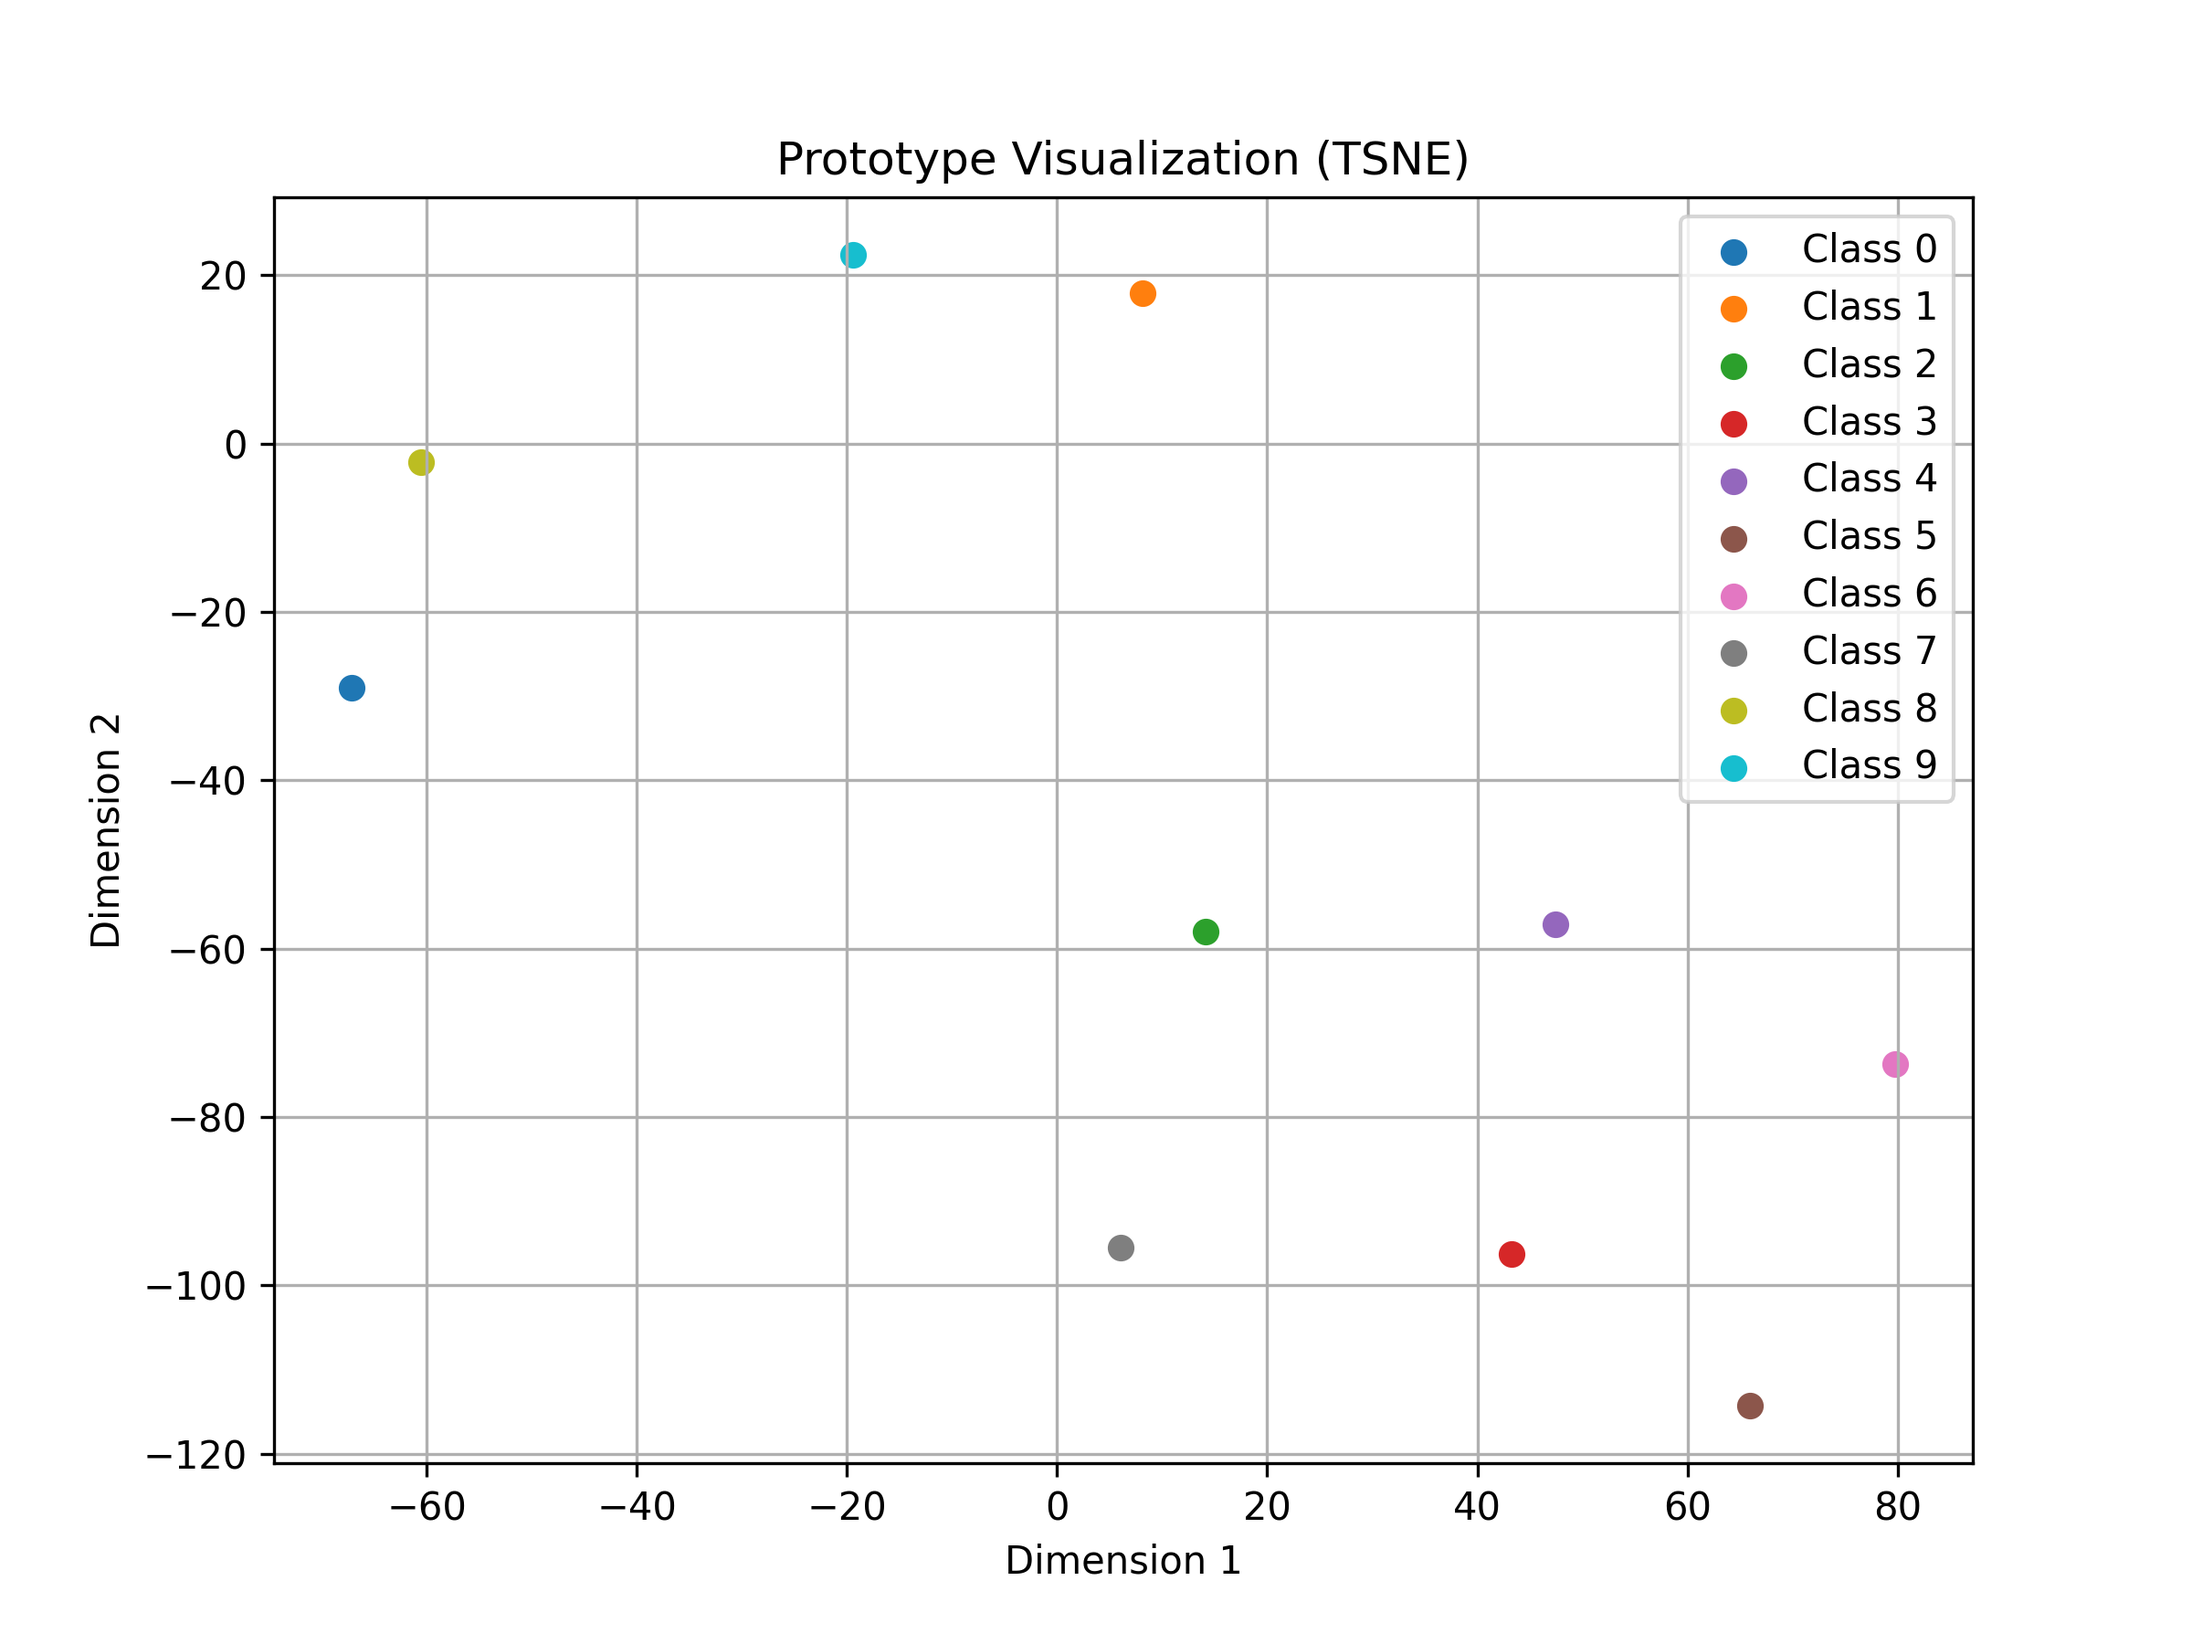
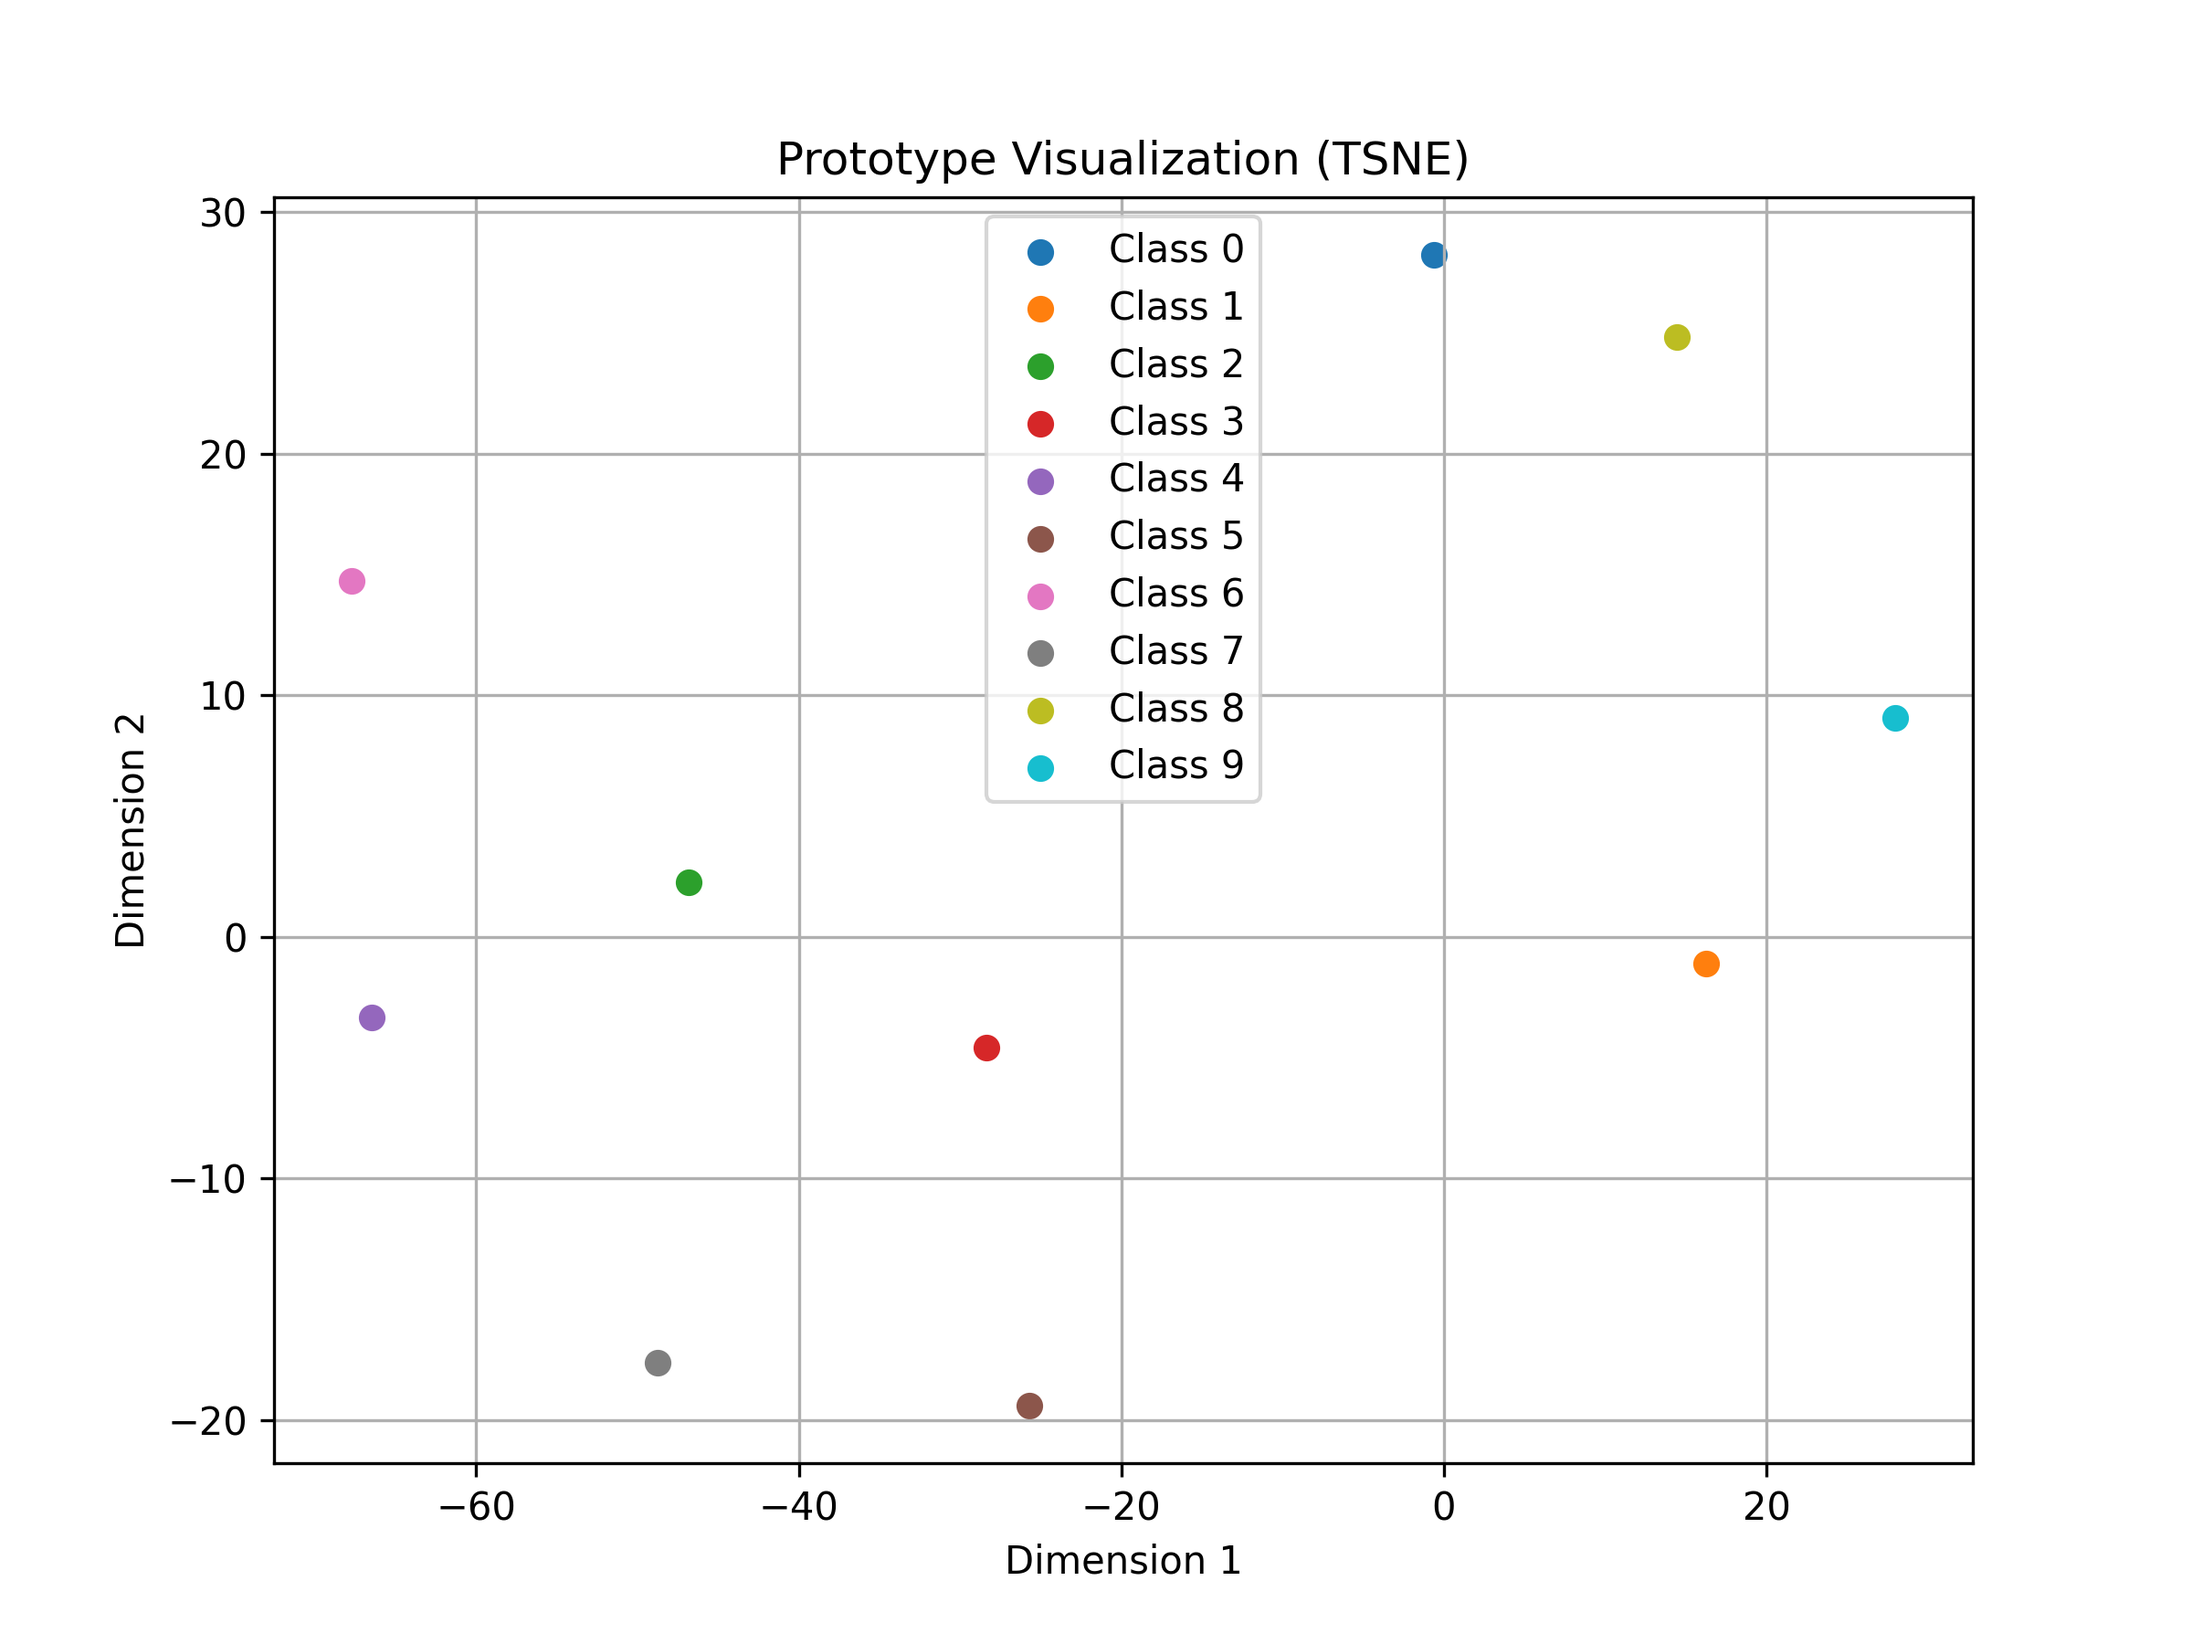
替换生成原型矩阵的编码器为resnet，训练加eval，分类效果一般。

diff --git a/utils.py b/utils.py
@@ -7,6 +7,7 @@ import random
 from skimage.metrics import peak_signal_noise_ratio as comp_psnr
 from skimage.metrics import structural_similarity as comp_ssim
 from skimage.metrics import mean_squared_error as comp_mse
+from scipy.spatial.distance import pdist, squareform
 
 
 def init_seeds(seed=42):
@@ -127,36 +128,82 @@ class PrototypeManager:
         self.mismatch_level = mismatch_level
         self.aid_alpha = aid_alpha  
 
+    # def generate_prototypes(self, encoder, dataloader, num_classes=10):
+    #     """
+    #     生成或加载原型矩阵
+    #     :param encoder: 用于提取特征的编码器
+    #     :param dataloader: 数据加载器
+    #     :param num_classes: 类别数量
+    #     :return: prototypes, prototypes_Kr
+    #     """
+    #     prototype_file = os.path.join(self.save_path, f'CIFAR_mis{self.mismatch_level:.3f}_aid{self.aid_alpha:.3f}_SKB.pt')
+    #     weight_file = os.path.join(self.save_path, f'CIFAR_mis{self.mismatch_level:.3f}_aid{self.aid_alpha:.3f}_SKB.pth.tar')
+
+    #     if os.path.exists(prototype_file):
+    #         prototypes = torch.load(prototype_file).to(self.device)
+    #         print(f"Loaded prototypes from {prototype_file}")
+    #     else:
+    #         # Load pretrained weights into the encoder if available
+    #         if os.path.exists(weight_file):
+    #             print(f"Loading pretrained weights from {weight_file}")
+    #             state_dict = torch.load(weight_file, map_location=self.device)
+    #             encoder.load_state_dict(state_dict, strict=False)
+
+    #         # 禁用任何原型融合：确保 encoder 输出原始特征
+    #         encoder.prototype = None
+    #         encoder.eval()
+    #         class_sum = None
+    #         class_count = None
+    #         with torch.no_grad():
+    #             for images, labels in dataloader:
+    #                 images, labels = images.to(self.device), labels.to(self.device)
+    #                 feat = encoder(images)  # Ensure encoder output matches decoder input dimensions
+    #                 feat = feat.view(feat.size(0), -1)
+    #                 if class_sum is None:
+    #                     feature_dim = feat.shape[1]
+    #                     class_sum = torch.zeros(num_classes, feature_dim).to(self.device)
+    #                     class_count = torch.zeros(num_classes).to(self.device)
+    #                 for i in range(num_classes):
+    #                     mask = (labels == i)
+    #                     if mask.sum() > 0:
+    #                         class_sum[i] += feat[mask].mean(dim=0)
+    #                         class_count[i] += 1
+
+    #         prototypes = class_sum / class_count.unsqueeze(1)
+    #         torch.save(prototypes, prototype_file)  # prototypes shape: [num_classes, feature_dim]
+    #         print(f"transmitter prototypes shape: {prototypes.shape}")
+    #         print(f"Saved transmitter prototypes to {prototype_file}")
+
+    #         # Save encoder weights
+    #         torch.save(encoder.state_dict(), weight_file)
+    #         print(f"Saved encoder weights to {weight_file}")
+        
+    #     if self.mismatch_level == 0.0:
+    #         prototypes_Kr = prototypes
+    #     else:
+    #         # Generate Kr with injected noise
+    #         prototypes_Kr = prototypes + self.mismatch_level * torch.randn_like(prototypes)
+        
+    #     return prototypes, prototypes_Kr
+
     def generate_prototypes(self, encoder, dataloader, num_classes=10):
         """
-        生成或加载原型矩阵
-        :param encoder: 用于提取特征的编码器
-        :param dataloader: 数据加载器
-        :param num_classes: 类别数量
-        :return: prototypes, prototypes_Kr
+        使用单独的深层网络生成原型矩阵
         """
         prototype_file = os.path.join(self.save_path, f'CIFAR_mis{self.mismatch_level:.3f}_aid{self.aid_alpha:.3f}_SKB.pt')
-        weight_file = os.path.join(self.save_path, f'CIFAR_mis{self.mismatch_level:.3f}_aid{self.aid_alpha:.3f}_SKB.pth.tar')
 
         if os.path.exists(prototype_file):
             prototypes = torch.load(prototype_file).to(self.device)
             print(f"Loaded prototypes from {prototype_file}")
         else:
-            # Load pretrained weights into the encoder if available
-            if os.path.exists(weight_file):
-                print(f"Loading pretrained weights from {weight_file}")
-                state_dict = torch.load(weight_file, map_location=self.device)
-                encoder.load_state_dict(state_dict, strict=False)
-
-            # 禁用任何原型融合：确保 encoder 输出原始特征
-            encoder.prototype = None
+            # 使用深层网络生成原型矩阵
             encoder.eval()
             class_sum = None
             class_count = None
             with torch.no_grad():
                 for images, labels in dataloader:
                     images, labels = images.to(self.device), labels.to(self.device)
-                    feat = encoder(images)  # Ensure encoder output matches decoder input dimensions
+                    feat = encoder(images)  # 使用深层网络提取特征
                     feat = feat.view(feat.size(0), -1)
                     if class_sum is None:
                         feature_dim = feat.shape[1]
@@ -167,22 +214,16 @@ class PrototypeManager:
                         if mask.sum() > 0:
                             class_sum[i] += feat[mask].mean(dim=0)
                             class_count[i] += 1
-
+    
             prototypes = class_sum / class_count.unsqueeze(1)
-            torch.save(prototypes, prototype_file)  # prototypes shape: [num_classes, feature_dim]
-            print(f"transmitter prototypes shape: {prototypes.shape}")
-            print(f"Saved transmitter prototypes to {prototype_file}")
-
-            # Save encoder weights
-            torch.save(encoder.state_dict(), weight_file)
-            print(f"Saved encoder weights to {weight_file}")
-        
+            torch.save(prototypes, prototype_file)  # 保存原型矩阵
+            print(f"Saved prototypes to {prototype_file}")
+    
         if self.mismatch_level == 0.0:
             prototypes_Kr = prototypes
         else:
-            # Generate Kr with injected noise
             prototypes_Kr = prototypes + self.mismatch_level * torch.randn_like(prototypes)
-        
+    
         return prototypes, prototypes_Kr
 
 
@@ -204,3 +245,59 @@ class PrototypeManager:
             return prototypes, prototypes_Kr
 
 
+import matplotlib.pyplot as plt
+from sklearn.manifold import TSNE
+from sklearn.decomposition import PCA
+
+def visualize_prototypes(prototypes, num_classes, method='tsne', save_path='./results/', file_name='prototypes.png'):
+    """
+    可视化原型矩阵并保存到指定路径
+    :param prototypes: 原型矩阵，形状为 [num_classes, feature_dim]
+    :param num_classes: 类别数量
+    :param method: 降维方法 ('tsne' 或 'pca')
+    :param save_path: 保存图片的路径
+    :param file_name: 保存图片的文件名
+    """
+    prototypes = prototypes.cpu().numpy()  # 转换为 NumPy 数组
+
+    if method == 'tsne':
+        reducer = TSNE(n_components=2, perplexity=min(5, num_classes - 1), random_state=42)
+    elif method == 'pca':
+        reducer = PCA(n_components=2)
+    else:
+        raise ValueError("Invalid method. Use 'tsne' or 'pca'.")
+
+    reduced_prototypes = reducer.fit_transform(prototypes)  # 降维
+
+    # 绘制散点图
+    plt.figure(figsize=(8, 6))
+    for i in range(num_classes):
+        plt.scatter(reduced_prototypes[i, 0], reduced_prototypes[i, 1], label=f'Class {i}')
+    plt.title(f'Prototype Visualization ({method.upper()})')
+    plt.xlabel('Dimension 1')
+    plt.ylabel('Dimension 2')
+    plt.legend()
+    plt.grid(True)
+
+    # 确保保存路径存在
+    os.makedirs(save_path, exist_ok=True)
+
+    # 保存图片
+    save_file = os.path.join(save_path, file_name)
+    plt.savefig(save_file, dpi=300)
+    print(f"Prototype visualization saved to {save_file}")
+
+    # 关闭绘图
+    plt.close()
+
+from torchvision.models import resnet18
+import torch.nn as nn
+
+class DeepEncoder(nn.Module):
+    def __init__(self):
+        super(DeepEncoder, self).__init__()
+        self.resnet = resnet18(pretrained=True)  # 使用预训练的 ResNet18
+        self.resnet.fc = nn.Identity()  # 移除最后的分类层，保留特征提取部分
+
+    def forward(self, x):
+        return self.resnet(x)

diff --git a/modules.py b/modules.py
@@ -98,9 +98,10 @@ class Encoder(nn.Module):
             # flatten z4 至 [batch, feature_dim]
             f = z4.view(z4.size(0), -1)
             # self.prototype 应为 [num_classes, feature_dim]，确保维度匹配
-            attn_scores = torch.matmul(f, self.prototype.t())  # [batch, num_classes]
-            attn_weights = F.softmax(attn_scores, dim=-1) # [batch, num_classes]
-            proto_info = torch.matmul(attn_weights, self.prototype)  # [batch, feature_dim]
+            prototype_mapped = torch.matmul(self.prototype, torch.randn(self.prototype.size(1), f.size(1)).to(f.device))
+            attn_scores = torch.matmul(f, prototype_mapped.t())  # [batch, num_classes]
+            attn_weights = torch.softmax(attn_scores, dim=-1) # [batch, num_classes]
+            proto_info = torch.matmul(attn_weights, prototype_mapped)  # [batch, feature_dim]
             f = f + self.config.aid_alpha * proto_info
             # 返回增强后的特征向量，此处直接返回 flattened 形式（network.py 会 reshape）
             return f
@@ -168,7 +169,7 @@ class Decoder_Recon(nn.Module):
 
             # Step 2: 计算注意力权重
             attn_scores = torch.matmul(z, prototype_mapped.t())  # [batch_size, num_classes]
-            attn_weights = F.softmax(attn_scores, dim=-1)  # [batch_size, num_classes]
+            attn_weights = torch.softmax(attn_scores, dim=-1)  # [batch_size, num_classes]
 
             # Step 3: 加权融合
             # 根据注意力权重加权 prototype_mapped，得到与 z 形状匹配的特征

diff --git a/train.py b/train.py
@@ -9,6 +9,10 @@ from evaluation import EVAL
 from utils import save_checkpoint, PSNR, PrototypeManager
 from modules import Encoder
 
+from utils import visualize_prototypes, DeepEncoder
+
+
+
 
 def train(config, net, train_iter, test_iter, device):
     learning_rate = config.lr
@@ -34,7 +38,7 @@ def train(config, net, train_iter, test_iter, device):
         aid_alpha=config.aid_alpha)
 
     # 生成或加载原型矩阵
-    encoder_for_proto = Encoder(config).to(device)
+    encoder_for_proto = DeepEncoder().to(device)
     prototypes, prototypes_Kr = prototype_manager.generate_prototypes(
         encoder=encoder_for_proto,
         dataloader=train_iter,
@@ -46,6 +50,12 @@ def train(config, net, train_iter, test_iter, device):
         net.decoder_recon.prototype = prototypes_Kr   # 解码器（重建）使用注入失配的原型
         net.decoder_class.prototype = prototypes_Kr   # 解码器（分类）同样使用
     print("Prototype matrices have been set in Encoder and Decoders.")
+
+
+    # 可视化原型矩阵
+    visualize_prototypes(prototypes, num_classes=10, method='tsne', save_path=config.result_path, file_name='prototypes_tsne.png')
+    print(f"Prototype matrix mean: {prototypes.mean().item():.4f}, std: {prototypes.std().item():.4f}")
+    print(f"Prototype matrix min: {prototypes.min().item():.4f}, max: {prototypes.max().item():.4f}")
 
 
     best_acc = 0

diff --git a/main.py b/main.py
@@ -55,9 +55,9 @@ def main(config):
 
     if config.load_checkpoint:
         model_name = '/{}/'.format(config.mod_method) + \
-                     'CIFAR_SNR{:.3f}_Trans{:d}_{}_mis{:.3f}__aid{:3.f}_SKB.pth.tar'.format(
-                         config.snr_train, config.channel_use, 
-                         config.mod_method, config.mismatch_level,config.aid_alpha)
+                     'CIFAR_SNR{:.3f}_Trans{:d}_{}_mis{:.3f}_aid{:.3f}_SKB.pth.tar'.format(
+                config.snr_train, config.channel_use, 
+                config.mod_method,config.mismatch_level,config.aid_alpha)
         net.load_state_dict(torch.load('./checkpoints' + model_name, map_location=torch.device('cpu')))
 
     if config.mode == 'train':
